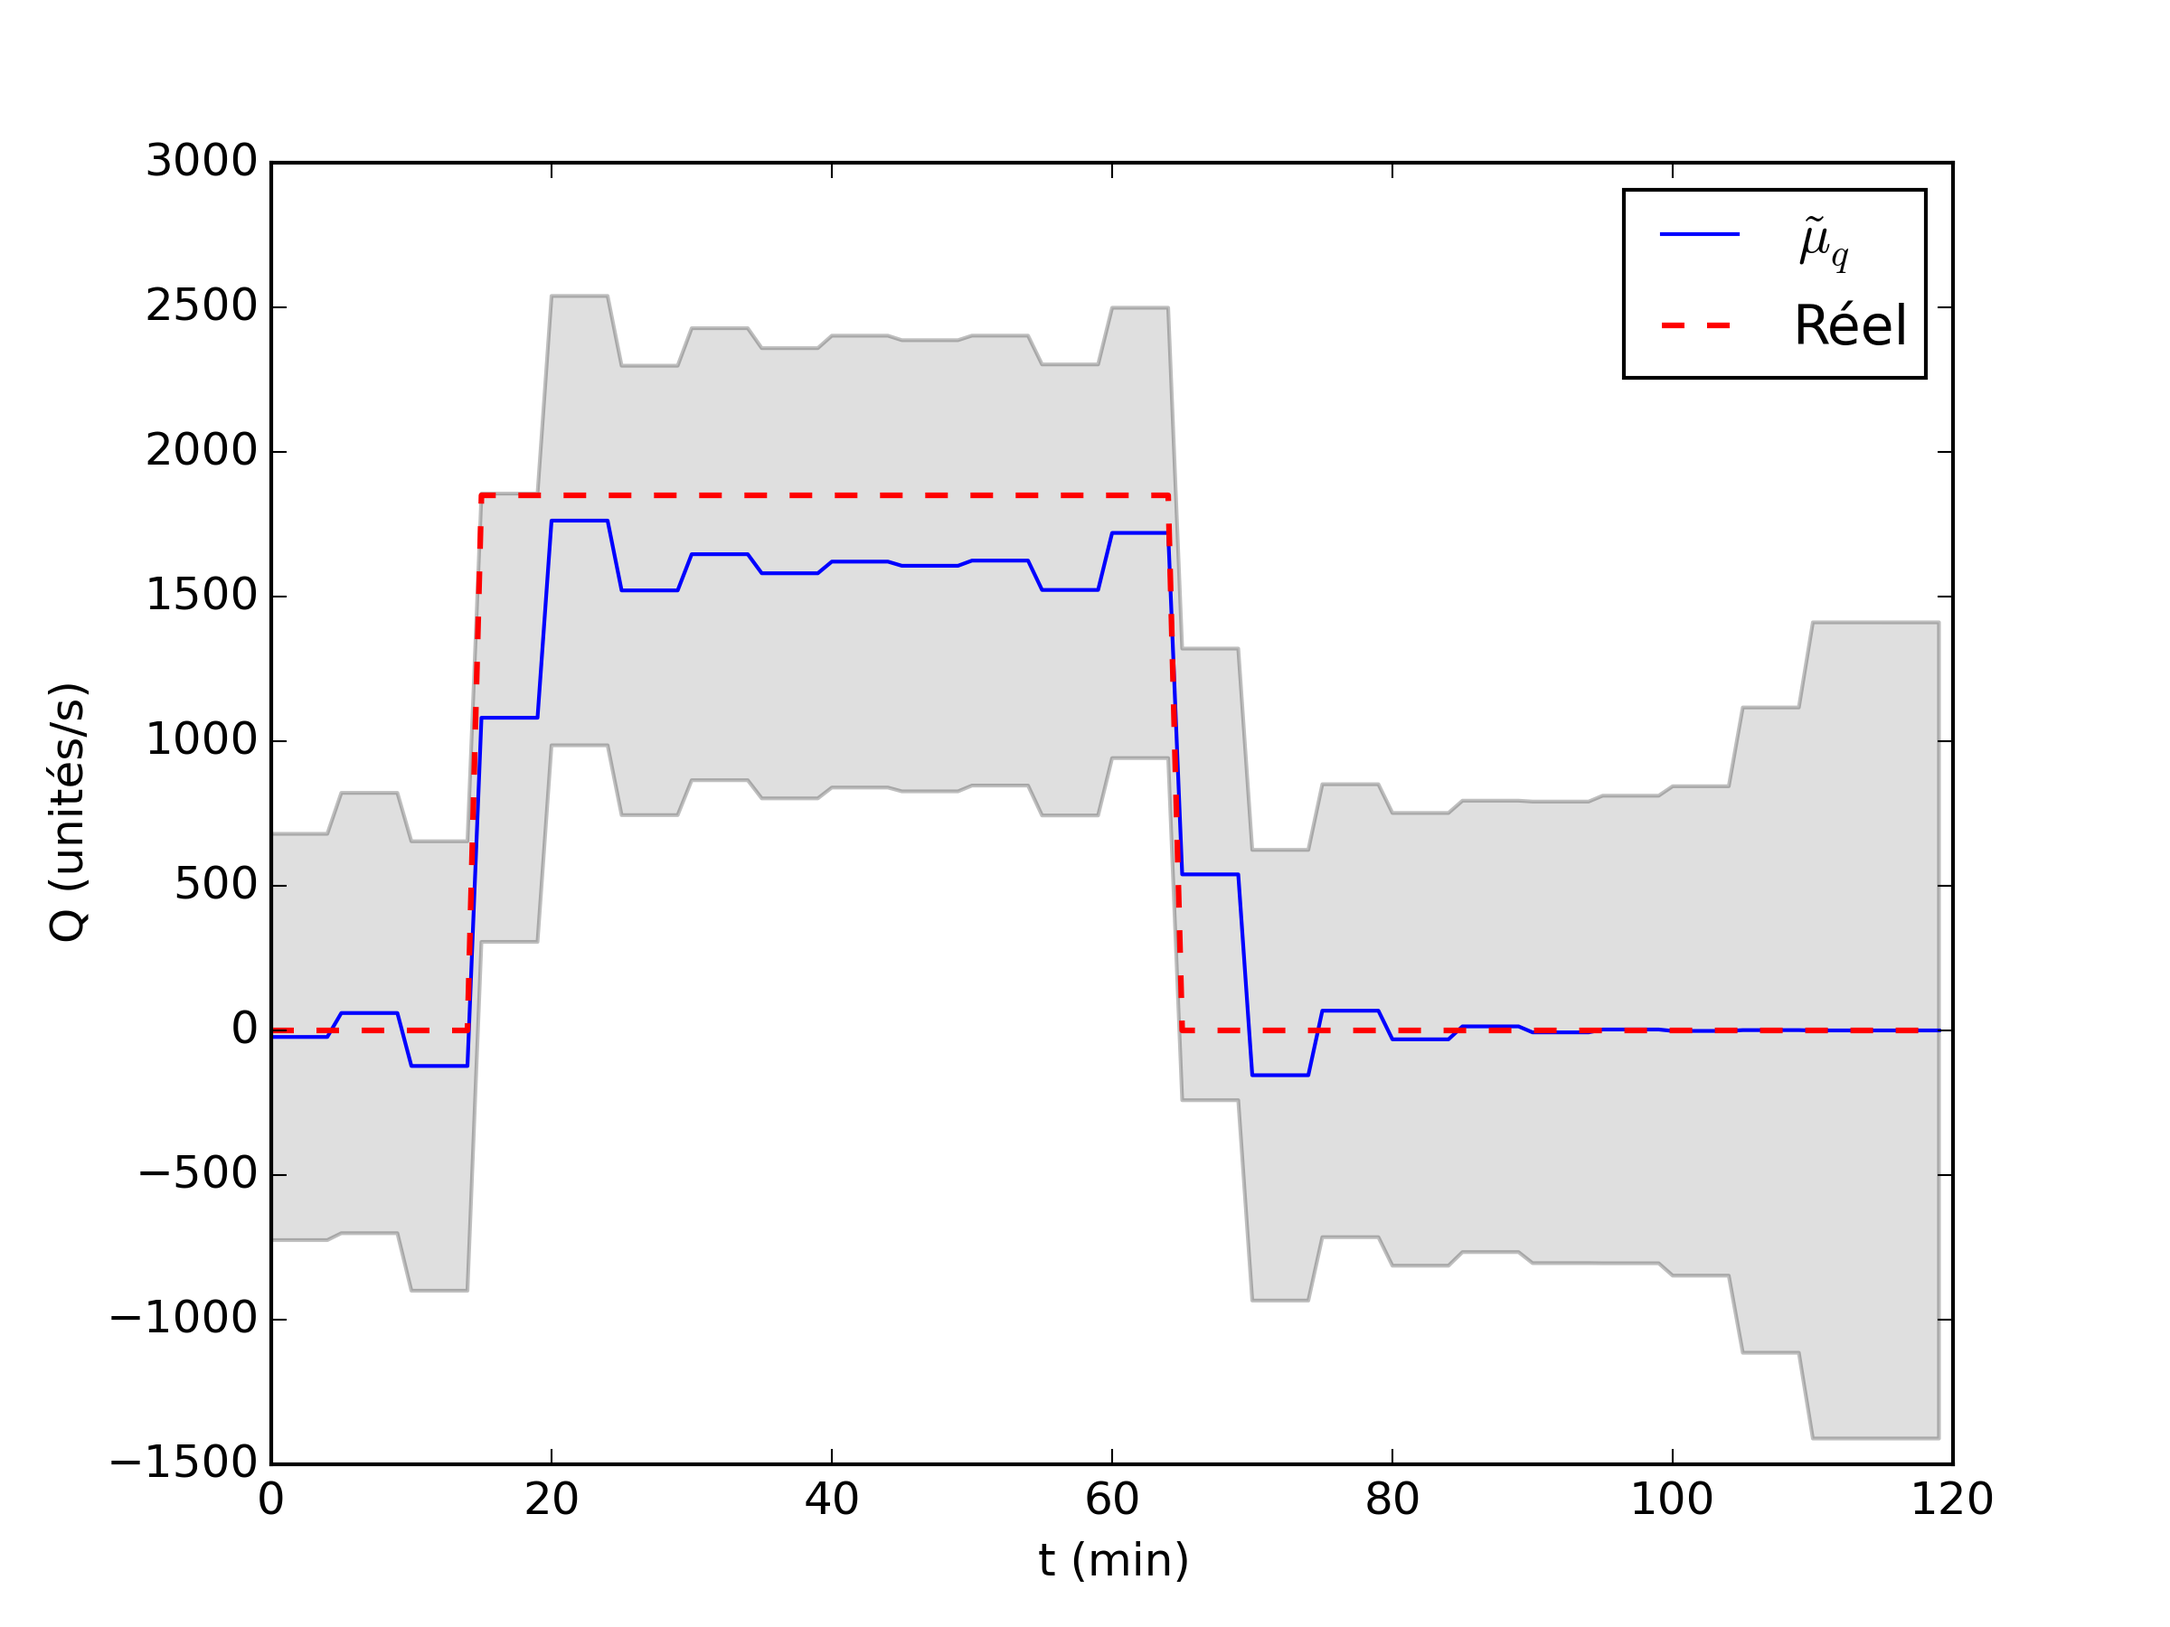
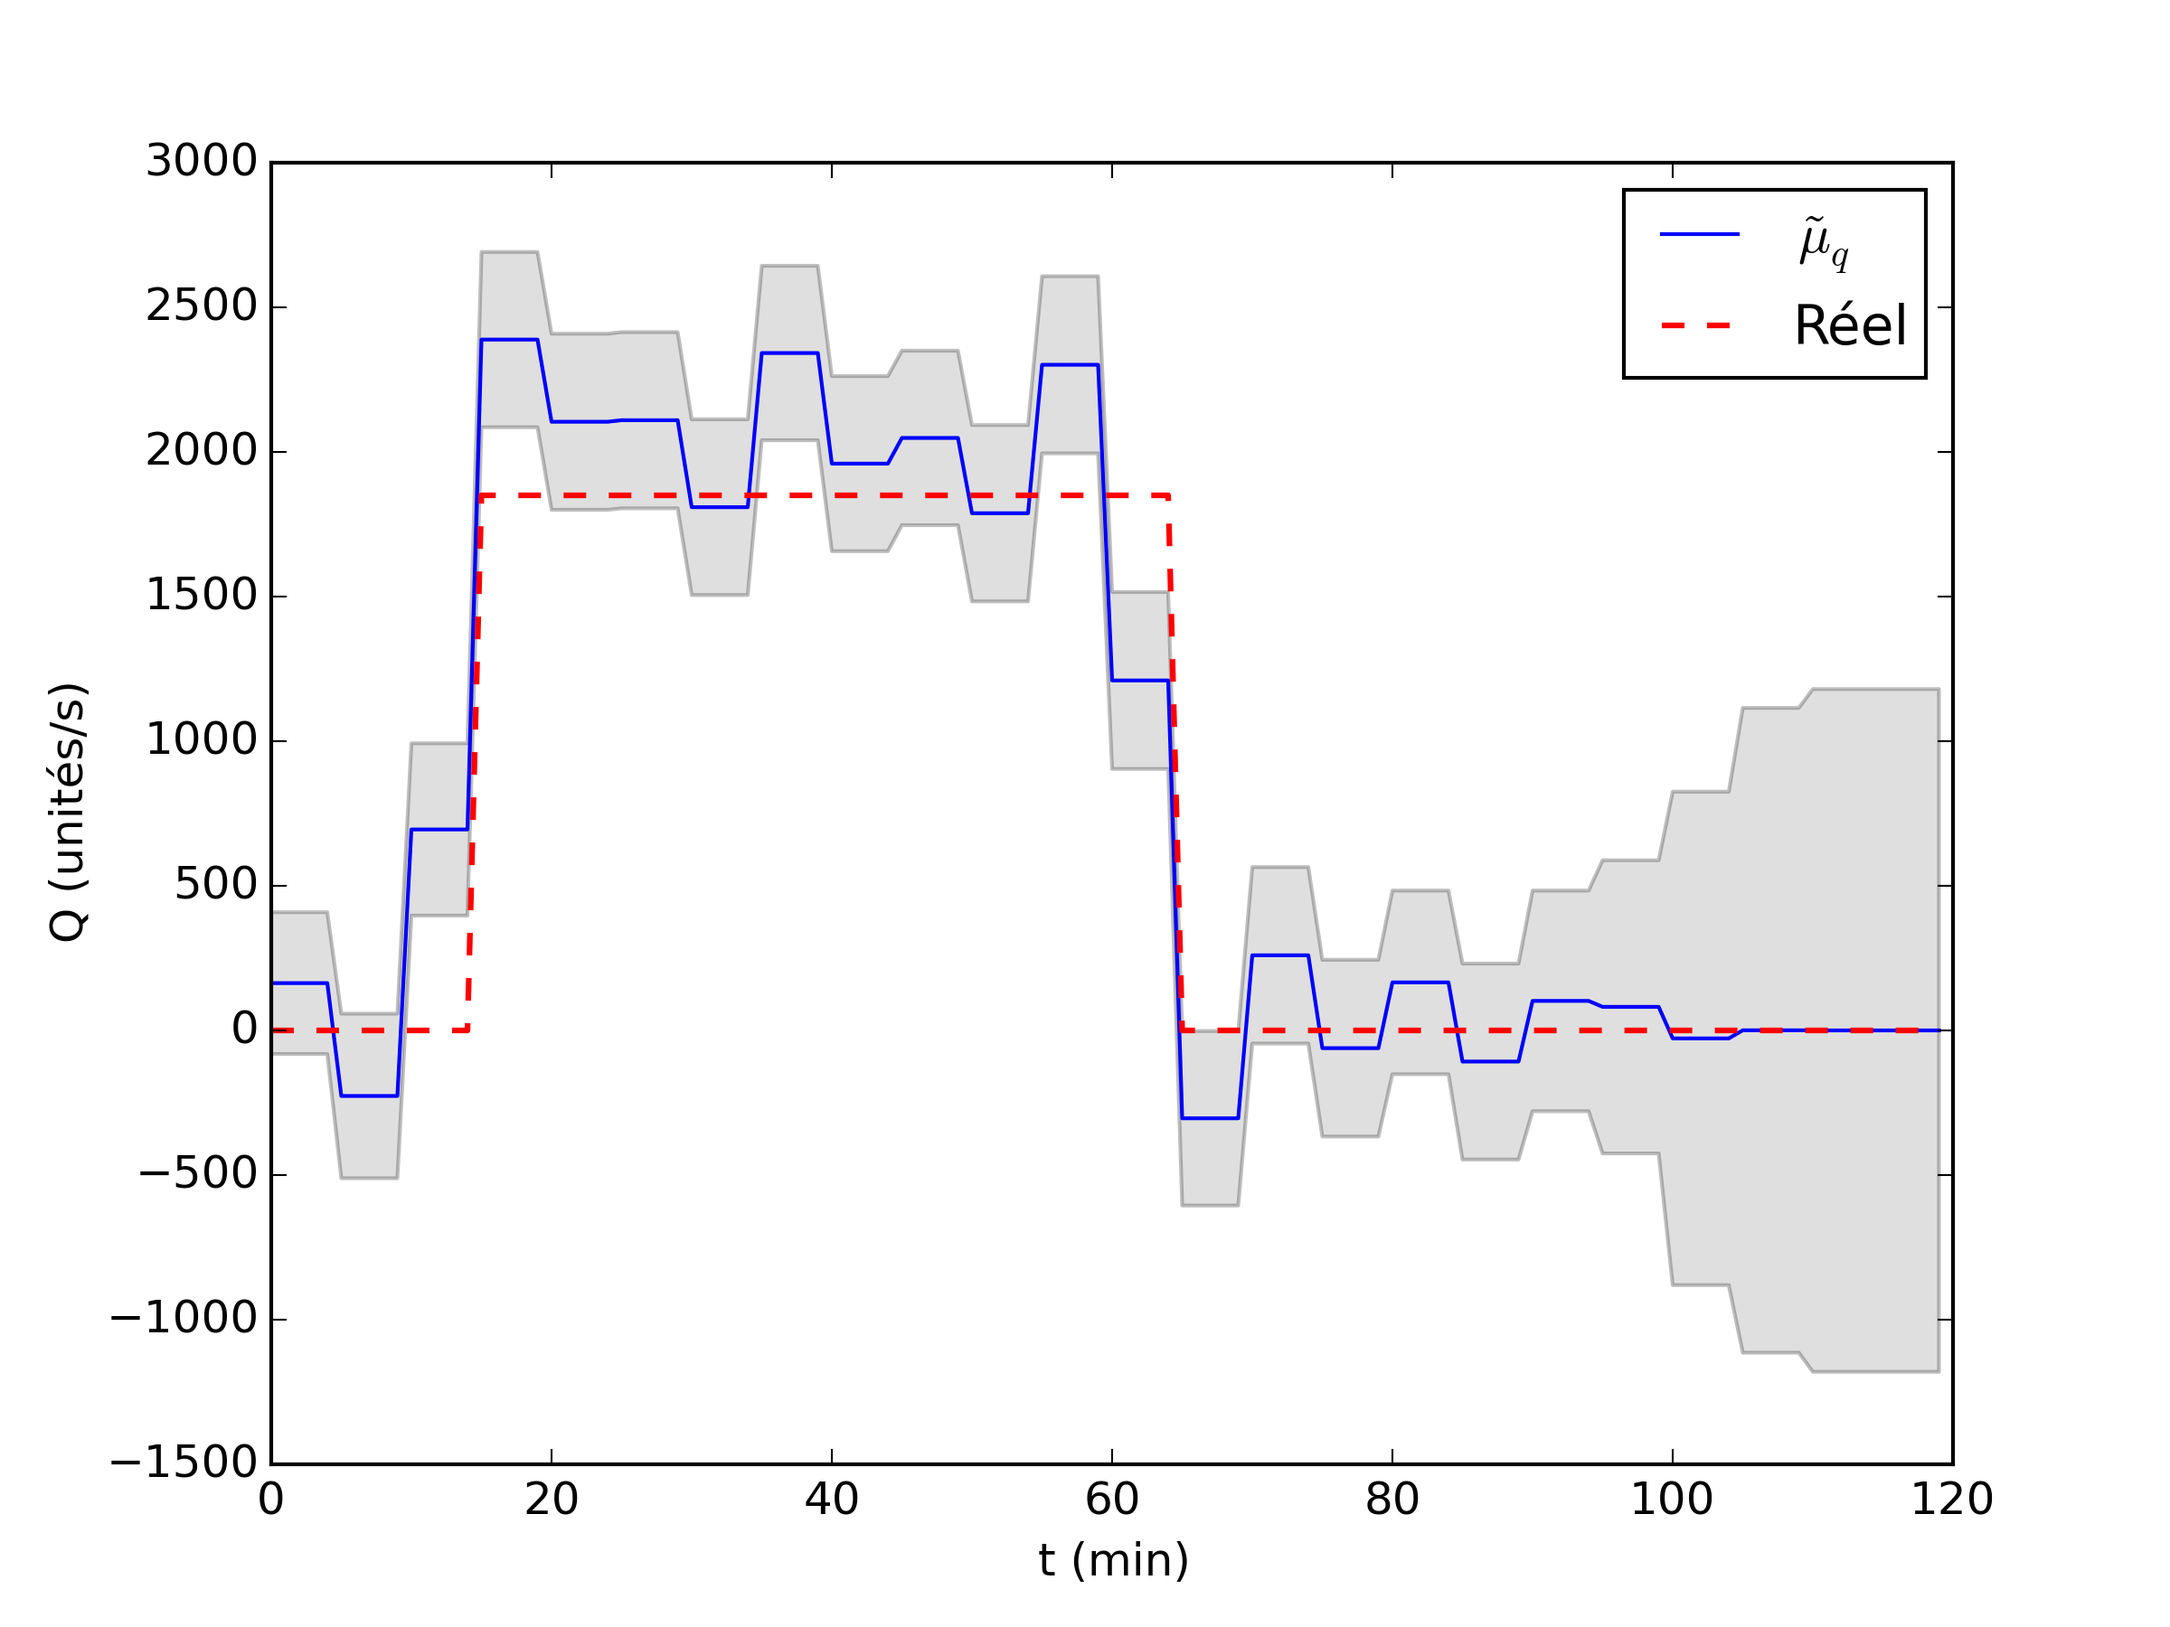
Updates chap4

Changed region(s): [[0.125, 0.1556, 0.8125, 0.8089], [0.8125, 0.84, 0.9062, 0.9022], [0.8125, 0.3733, 0.9062, 0.4356]]

diff --git a/chapitre_4.tex b/chapitre_4.tex
@@ -327,7 +327,7 @@ Chaque capteur est modélisé par un volume de \SI{15}{\meter} $\times$ \SI{15}{
 
 Pour tous les résultats présentés dans ce chapitre, le pré-calcul des fichiers binaires contenant les rétro-concentrations ainsi que l'algorithme AMIS ont été exécutés sur le supercalculateur AIRAIN du Très Grand Centre de Calcul (TGCC). \\
 
-Avec une initialisation uniforme sur le domaine et un total de 10 itérations, l'algorithme d'estimation du terme source parvient à fournir une bonne estimation des paramètres, aussi bien concernant la localisation de la source (figures \ref{fig_25C_prelim_X} et \ref{fig_25C_prelim_Y}) que la reconstruction de son profil d'émission (figure \ref{fig_25C_prelim_Q}).\\
+Avec une initialisation uniforme sur le domaine et un total de 10 itérations, l'algorithme d'estimation du terme source parvient à fournir une estimation relativement correcte des paramètres, aussi bien concernant la localisation de la source (figures \ref{fig_25C_prelim_X} et \ref{fig_25C_prelim_Y}) que la reconstruction de son profil d'émission (figure \ref{fig_25C_prelim_Q}).\\
 
  \begin{figure}[h!]
  	\centering
@@ -349,7 +349,7 @@ Avec une initialisation uniforme sur le domaine et un total de 10 itérations, l
  		\caption{Profil d'émission}
  		\label{fig_25C_prelim_Q}
  	\end{subfigure} 
- 	\caption{Résultats d'un \textit{run} de l'algorithme d'estimation sur le cas-test Beaune, avec les paramètres $\varObs=2\times 10^{-5}$ et $\varQ=2\times 10^6$}
+ 	\caption{Résultats d'un \textit{run} de l'algorithme d'estimation sur le cas-test Beaune, avec les paramètres $\varObs=2\times 10^{-6}$ et $\varQ=2\times 10^6$}
  	\label{fig_25C_prelim}
  \end{figure}
  
@@ -365,7 +365,13 @@ Avec une initialisation uniforme sur le domaine et un total de 10 itérations, l
  	\item $\widehat{\Vecx} _{MMSE}$ est l'estimation ponctuelle par MMSE de la position de la source obtenue via les particules et les poids d'importance fournis en sortie de l'AMIS.
  \end{itemize}
  
- Dans l'exemple de la figure \ref{fig_25C_prelim}, on obtient ainsi une erreur relative $r_d = 0.018$.\\
+ Pour mesurer l'erreur d'estimation du débit, on utilise l'erreur quadratique moyenne définie par:
+ \begin{equation}
+	 Err(\tilde{\VecMeanQ}) = \dfrac{1}{T_s} \sum\limits_{i=1}^{T_s}(\VecQSource^{(i)} - \tilde{\VecMeanQ}^{(i)})^2
+ \end{equation}
+ où $\VecQSource$ est le profil d'émission réel et $\tilde{\VecMeanQ}$ est le profil estimé.\\
+ 
+ Dans l'exemple de la figure \ref{fig_25C_prelim}, on obtient ainsi une erreur relative de $r_d = 0.017$ pour la position, et une erreur d'estimation du débit de $Err(\tilde{\VecMeanQ}) = 296.909$. \\
  
  Il a cependant été observé que la qualité des résultats d'estimation dépend fortement des paramètres de variance d'observation $\varObs$ et de variance a priori $\varQ$ du profil d'émission $\VecQSource$ . Comme il s'agit de grandeurs que l'utilisateur doit lui-même spécifier avant de lancer la procédure d'estimation, une étude paramétrique leur est consacrée dans les prochains paragraphes.
  
@@ -383,7 +389,17 @@ Avec une initialisation uniforme sur le domaine et un total de 10 itérations, l
    
          Concernant la localisation de la source, on observe sur les figures \ref{fig_25C_analyse_varobs_x} et \ref{fig_25C_analyse_varobs_y} de l'Annexe A que les résultats sont plutôt réguliers: l'estimation de la position est bonne pour les valeurs inférieures à $5\times 10^{-6}$ puis se dégrade progressivement jusqu'à avoir du mal à définir une zone précise de l'espace (\ref{varF_x} et \ref{varF_y}).
          
-         Pour le profil d'estimation sur la figure \ref{fig_25C_analyse_varobs_q} de l'Annexe A, celui-ci est relativement bien estimé pour $\varObs=10^{-7}$, les variations étant de plus en plus importantes au fur et à mesure que la valeur de la variance d'observation augmente. Certaines des valeurs estimées pour le débit soient négatives, or il a été constaté que l'application de la contrainte de positivité a tendance à surestimer les valeurs de $\tilde{\VecMeanQ}$, comme le montre l'exemple de la figure \ref{fig_sansavecPC}. Il a donc été décidé de ne pas implémenter cette contrainte, car malgré la présence de quelques valeurs négatives, le sens physique des résultats d'estimation est globalement respecté.\\
+         Pour le profil d'estimation sur la figure \ref{fig_25C_analyse_varobs_q} de l'Annexe A, celui-ci est relativement bien estimé pour $\varObs=10^{-7}$, les variations étant de plus en plus importantes au fur et à mesure que la valeur de la variance d'observation augmente. Les courbes d'erreur de la figure \ref{fig_25C_varobs_erreurs} donnent un aperçu de l'influence générale de la variance d'observation.
+         
+         \begin{figure}[h!]
+         	\centering
+         	\includegraphics[width=0.8\textwidth]{25C_varobs_errors.png}
+         	\caption{Courbes d'erreur pour l'analyse paramétrique de $\varObs$}
+         	\label{fig_25C_varobs_erreurs}
+         \end{figure}
+         
+         
+         Certaines des valeurs estimées pour le débit soient négatives, or il a été constaté que l'application de la contrainte de positivité a tendance à surestimer les valeurs de $\tilde{\VecMeanQ}$, comme le montre l'exemple de la figure \ref{fig_sansavecPC}. Il a donc été décidé de ne pas implémenter cette contrainte, car malgré la présence de quelques valeurs négatives, le sens physique des résultats d'estimation est globalement respecté.\\
        
 \begin{figure}[h!]
     	\centering
@@ -411,7 +427,52 @@ En examinant les résultats des figures précédentes, on pourrait considérer l
 
 La variance a priori $\varQ$ peut être vue comme une hypothèse de départ sur l'amplitude possible des valeurs du profil d'émission. Son influence s'applique à la fois sur la qualité de la reconstruction de $\VecQSource$, mais également sur celle de la localisation de la source, car $\varQ$ intervient dans l'algorithme AMIS lors du calcul de la vraisemblance des particules. 
 
-Pour cette analyse, on utilise le même procédé que pour l'étude de $\varObs$, avec un nombre identique d'itération et de particules échantillonnées, l'initialisation reste uniforme, et on fixe $\VecMeanQ = (0,\cdots,0)$ et $\varObs=10^{-6}$. Un total de 100 \textit{runs} de l'AMIS est exécuté, les valeurs de $\varQ$ couvertes étant: $2\times 10^5, 7\times 10^5, 2\times 10^6, 7\times 10^6, 2\times 10^7$ et $7\times 10^7$.
+Pour cette analyse, on utilise le même procédé que pour l'étude de $\varObs$, avec un nombre identique d'itération et de particules échantillonnées, l'initialisation reste uniforme, et on fixe $\VecMeanQ = (0,\cdots,0)$ et $\varObs=10^{-6}$. Un total de 100 \textit{runs} de l'AMIS est exécuté, les valeurs de $\varQ$ couvertes étant: $2\times 10^5, 7\times 10^5, 2\times 10^6, 7\times 10^6, 2\times 10^7$ et $7\times 10^7$.\\
+
+Pour l'estimation de la position, on constate que plus la valeur de $\varQ$ considérée est grande, plus la source aura tendance à être estimée en amont sur l'axe du panache par rapport à la direction du vent. Ce phénomène est bien visible sur la figure \ref{fig_25C_varQ_boxplots}, où les \textit{boxplots} des estimations ponctuelles sont tracées pour chacune des valeurs de $\varQ$ testées.
+
+\begin{figure}[h!]
+	\centering
+         	\begin{subfigure}[t]{0.5\textwidth}
+         		\centering
+         		\includegraphics[width=1\textwidth]{25C_varQ_boxplot_x.png}
+         		\caption{}
+         		\label{varQ_boxplot_x}
+         	\end{subfigure}%         	
+         \begin{subfigure}[t]{0.5\textwidth}
+         	\centering
+         	\includegraphics[width=1\textwidth]{25C_varQ_boxplot_y.png}
+         	\caption{}
+         	\label{varQ_boxplot_y}
+         \end{subfigure}%
+         \caption{\textit{Boxplots} des estimations par MMSE de la position de la source sur 100 runs, comparaison avec les valeurs réelles (en pointillés noirs)}
+         \label{fig_25C_varQ_boxplots}
+	
+\end{figure}
+
+La meilleure estimation du profil d'émission est obtenue pour $\varQ=2\times 10^6$ (voir figure \ref{fig_25C_analyse_varq_q} de l'Annexe A), ce qui coïncide avec la meilleure position estimée dans la figure \ref{fig_25C_varQ_boxplots}. Pour des valeurs plus faibles de $\varQ$ le débit est sous-estimé, à l'inverse pour des valeurs plus élevées le débit est surestimé. On peut résumer ce comportement grâce aux courbes d'erreur de la figure \ref{fig_25C_varq_erreurs}.
+
+         \begin{figure}[h!]
+         	\centering
+         	\includegraphics[width=0.8\textwidth]{25C_varQ_errors.png}
+         	\caption{Courbes d'erreur pour l'analyse paramétrique de $\varQ$}
+         	\label{fig_25C_varq_erreurs}
+         \end{figure}
+
+\subsection{Influence de la densité du réseau de capteurs}
+
+Le nombre et de la répartition des capteurs constitue un facteur important: 
+
+\begin{itemize}
+	\item du point de vue théorique, son étude permet de mieux comprendre le comportement de l'algorithme d'estimation et quantifier son importance par rapport aux autres variables,
+	\item en pratique, l'analyse des résultats d'estimation en fonction de la configuration des capteurs permet un meilleur dimensionnement du réseau de mesure.\\
+\end{itemize}
+
+\subsubsection{Impact du capteur R8}
+
+Dans un premier temps, nous nous intéressons à l'influence du capteur R8, dont les mesures (figure \ref{fig_observations_25CAPTEURS}) semblent être les plus informatives. Pour cela, nous le retirons du réseau, et nous effectuons l'opération d'estimation du terme source avec les observations issues des 24 capteurs restants. En pratique, cela reviendrait par exemple à simuler la panne du capteur R8 durant la fenêtre temporelle d'observation.\\
+
+
 
  
  

diff --git a/annexe_chap4.tex b/annexe_chap4.tex
@@ -179,4 +179,87 @@ Sur chaque figure, on superpose les valeurs de $\tilde{\VecMu}_q$ estimée à ch
     	\caption{Analyse paramétrique sur la variance a priori $\varQ$ pour le cas-test Beaune (25 capteurs): localisation en $x$ de la source}
     	\label{fig_25C_analyse_varq_x}
     \end{figure}
-  
+    
+    \begin{figure}[p!]
+    	\centering
+    	\begin{subfigure}[t]{0.5\textwidth}
+    		\centering
+    		\includegraphics[width=1\textwidth]{25C_varq_Y_A.png}
+    		\caption{}
+    		\label{varq_A_y}
+    	\end{subfigure}%
+    	\begin{subfigure}[t]{0.5\textwidth}
+    		\centering
+    		\includegraphics[width=1\textwidth]{25C_varq_Y_B.png}
+    		\caption{}
+    		\label{varq_B_y}
+    	\end{subfigure}
+    	\begin{subfigure}[t]{0.5\textwidth}
+    		\centering
+    		\includegraphics[width=1\textwidth]{25C_varq_Y_C.png}
+    		\caption{}
+    		\label{varq_C_y}
+    	\end{subfigure}%
+    	\begin{subfigure}[t]{0.5\textwidth}
+    		\centering
+    		\includegraphics[width=1\textwidth]{25C_varq_Y_D.png}
+    		\caption{}
+    		\label{varq_D_y}
+    	\end{subfigure}
+    	\begin{subfigure}[t]{0.5\textwidth}
+    		\centering
+    		\includegraphics[width=1\textwidth]{25C_varq_Y_E.png}
+    		\caption{}
+    		\label{varq_E_y}
+    	\end{subfigure}%
+    	\begin{subfigure}[t]{0.5\textwidth}
+    		\centering
+    		\includegraphics[width=1\textwidth]{25C_varq_Y_F.png}
+    		\caption{}
+    		\label{varq_F_y}
+    	\end{subfigure}
+    	\caption{Analyse paramétrique sur la variance a priori $\varQ$ pour le cas-test Beaune (25 capteurs): localisation en $y$ de la source}
+    	\label{fig_25C_analyse_varq_y}
+    \end{figure}
+    
+    \begin{figure}[p!]
+    	\centering
+    	\begin{subfigure}[t]{0.5\textwidth}
+    		\centering
+    		\includegraphics[width=1\textwidth]{25C_varq_Q_A.png}
+    		\caption{}
+    		\label{varq_A_q}
+    	\end{subfigure}%
+    	\begin{subfigure}[t]{0.5\textwidth}
+    		\centering
+    		\includegraphics[width=1\textwidth]{25C_varq_Q_B.png}
+    		\caption{}
+    		\label{varq_B_q}
+    	\end{subfigure}
+    	\begin{subfigure}[t]{0.5\textwidth}
+    		\centering
+    		\includegraphics[width=1\textwidth]{25C_varq_Q_C.png}
+    		\caption{}
+    		\label{varq_C_q}
+    	\end{subfigure}%
+    	\begin{subfigure}[t]{0.5\textwidth}
+    		\centering
+    		\includegraphics[width=1\textwidth]{25C_varq_Q_D.png}
+    		\caption{}
+    		\label{varq_D_q}
+    	\end{subfigure}
+    	\begin{subfigure}[t]{0.5\textwidth}
+    		\centering
+    		\includegraphics[width=1\textwidth]{25C_varq_Q_E.png}
+    		\caption{}
+    		\label{varq_E_q}
+    	\end{subfigure}%
+    	\begin{subfigure}[t]{0.5\textwidth}
+    		\centering
+    		\includegraphics[width=1\textwidth]{25C_varq_Q_F.png}
+    		\caption{}
+    		\label{varq_F_q}
+    	\end{subfigure}
+    	\caption{Analyse paramétrique sur la variance a priori $\varQ$ pour le cas-test Beaune (25 capteurs): reconstruction du profil d'émission}
+    	\label{fig_25C_analyse_varq_q}
+    \end{figure}
